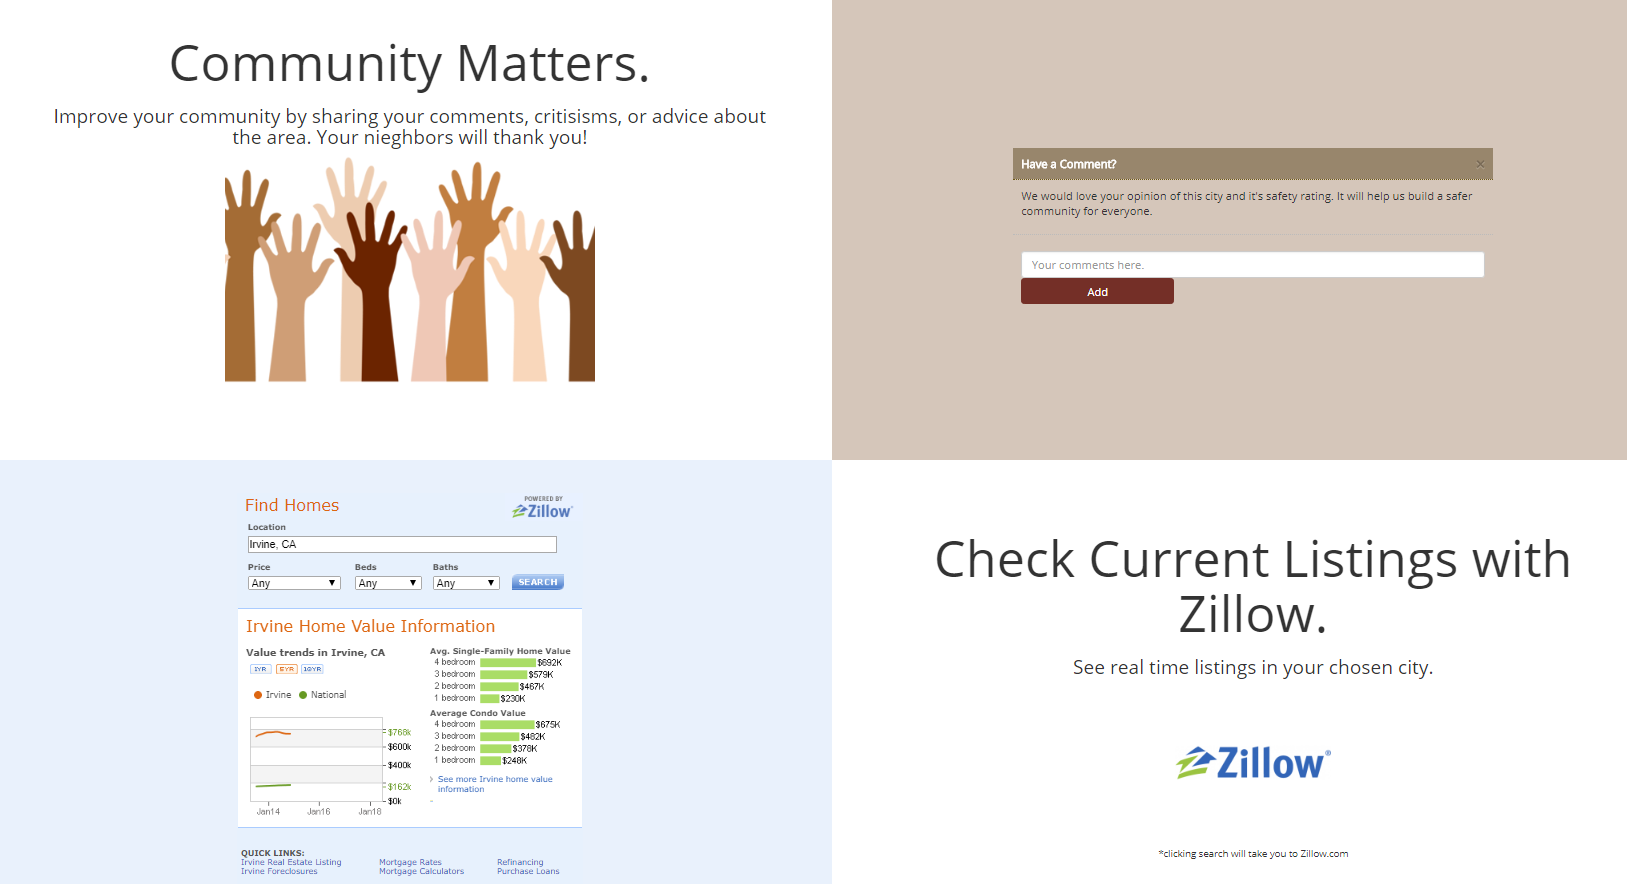
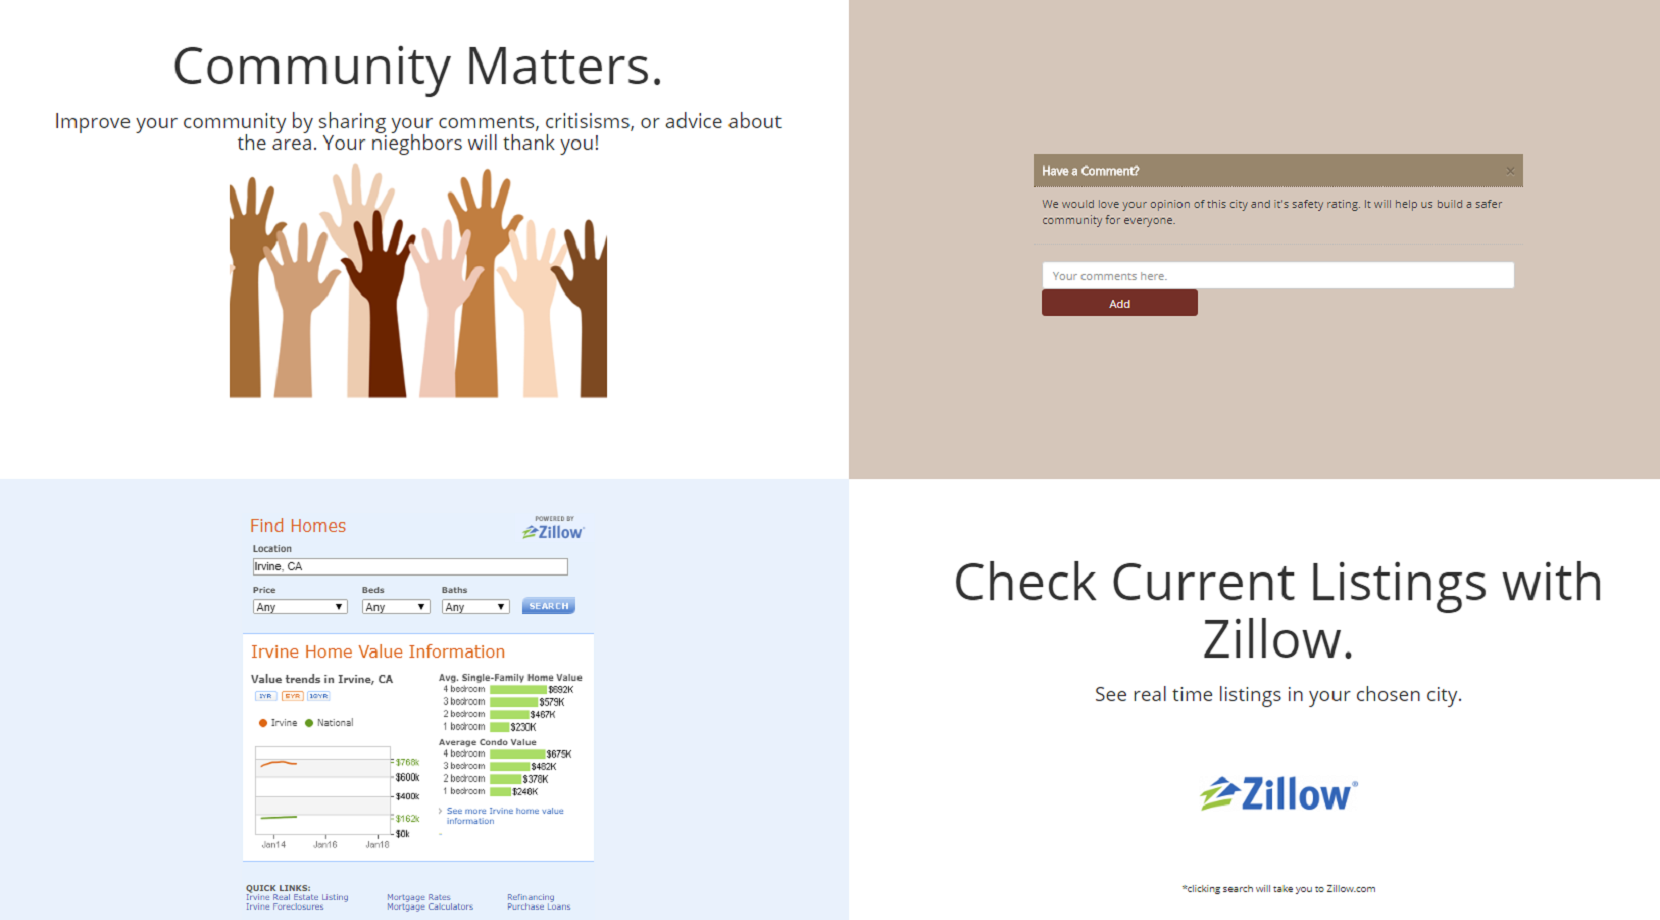
Rezised images to prevent page movement

diff --git a/index.html b/index.html
@@ -144,6 +144,15 @@
                                             <span class="sr-only">Next</span>
                                         </a>
                                     </div>
+                                    <div>
+                                        <br>
+                                        <p>Live demo
+                                            <a target="_blank" href="https://nameless-badlands-19621.herokuapp.com/">here</a> (currently working with California Zip Codes)
+                                        </p>
+                                        <p>Source code
+                                            <a target="_blank" href="https://github.com/h4k4s4m/safe-move-app">here</a>
+                                        </p>
+                                    </div>
                                 </div>
                                 <div class="col-sm-12">
                                     <p>Project 2</p>
@@ -154,17 +163,18 @@
                 </div>
             </div>
         </div>
+    </div>
 
 
 
 
-        <script src="https://code.jquery.com/jquery-3.3.1.slim.min.js" integrity="sha384-q8i/X+965DzO0rT7abK41JStQIAqVgRVzpbzo5smXKp4YfRvH+8abtTE1Pi6jizo"
-            crossorigin="anonymous"></script>
-        <script src="https://cdnjs.cloudflare.com/ajax/libs/popper.js/1.14.3/umd/popper.min.js" integrity="sha384-ZMP7rVo3mIykV+2+9J3UJ46jBk0WLaUAdn689aCwoqbBJiSnjAK/l8WvCWPIPm49"
-            crossorigin="anonymous"></script>
-        <script src="https://stackpath.bootstrapcdn.com/bootstrap/4.1.1/js/bootstrap.min.js" integrity="sha384-smHYKdLADwkXOn1EmN1qk/HfnUcbVRZyYmZ4qpPea6sjB/pTJ0euyQp0Mk8ck+5T"
-            crossorigin="anonymous"></script>
-        <script src="scripts.js"></script>
+    <script src="https://code.jquery.com/jquery-3.3.1.slim.min.js" integrity="sha384-q8i/X+965DzO0rT7abK41JStQIAqVgRVzpbzo5smXKp4YfRvH+8abtTE1Pi6jizo"
+        crossorigin="anonymous"></script>
+    <script src="https://cdnjs.cloudflare.com/ajax/libs/popper.js/1.14.3/umd/popper.min.js" integrity="sha384-ZMP7rVo3mIykV+2+9J3UJ46jBk0WLaUAdn689aCwoqbBJiSnjAK/l8WvCWPIPm49"
+        crossorigin="anonymous"></script>
+    <script src="https://stackpath.bootstrapcdn.com/bootstrap/4.1.1/js/bootstrap.min.js" integrity="sha384-smHYKdLADwkXOn1EmN1qk/HfnUcbVRZyYmZ4qpPea6sjB/pTJ0euyQp0Mk8ck+5T"
+        crossorigin="anonymous"></script>
+    <script src="scripts.js"></script>
 </body>
 
 </html>
